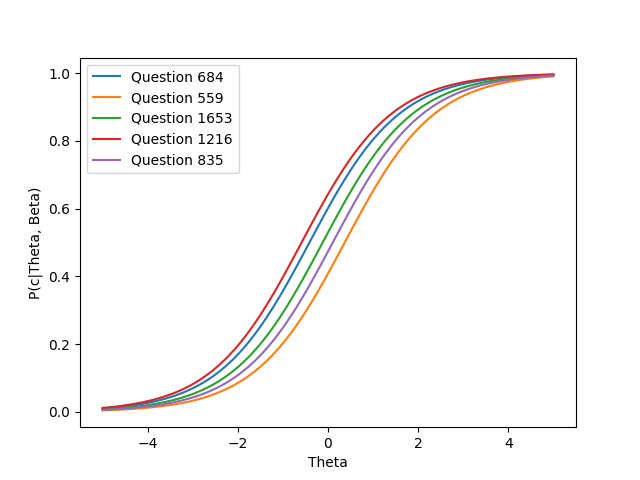
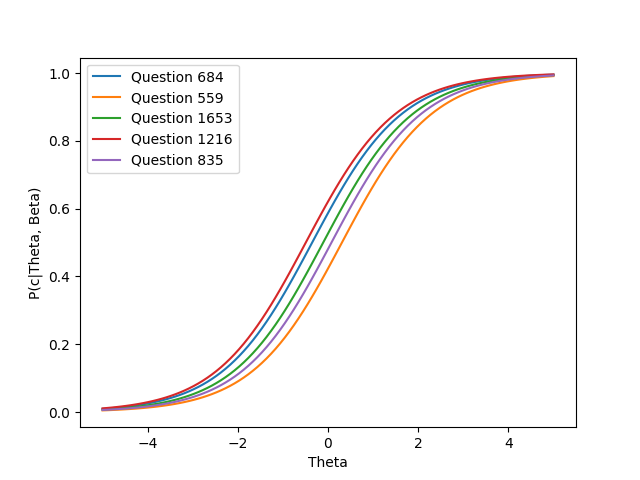
Fixed dict_to_sparse

Changed region(s): [[0.1562, 0.1562, 0.8438, 0.875], [0.0625, 0.8438, 0.125, 0.875]]

diff --git a/starter_code/part_a/item_response.py b/starter_code/part_a/item_response.py
@@ -160,6 +160,7 @@ def plot_questions(questions, beta):
 
 def dict_to_sparse(data_dict, N, d):
     mat = sparse.lil_matrix((N, d))
+    mat[:, :] = np.nan
     for i in range(len(data_dict['user_id'])):
         mat[data_dict['user_id'][i], data_dict['question_id'][i]] = data_dict[
             'is_correct'][i]
@@ -179,7 +180,7 @@ def main():
     # code, report the validation and test accuracy.                    #
     #####################################################################
     lr = 0.01
-    iterations = 20
+    iterations = 15
     #####################################################################
     #                       END OF YOUR CODE                            #
     #####################################################################
